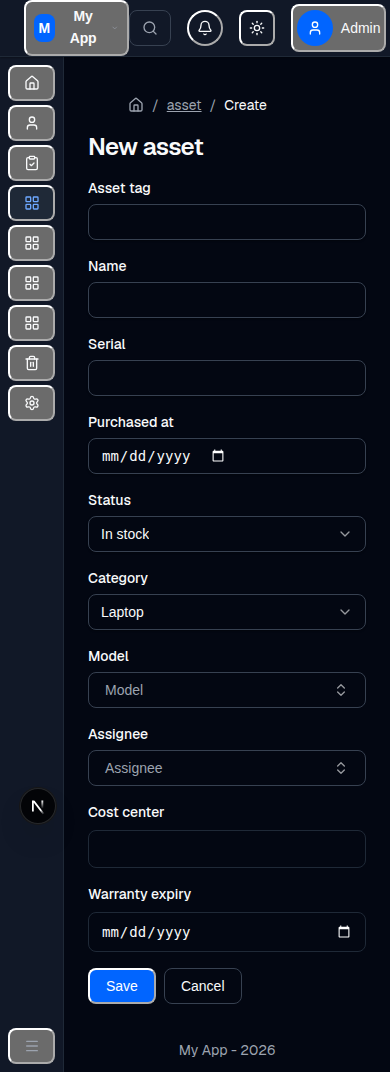
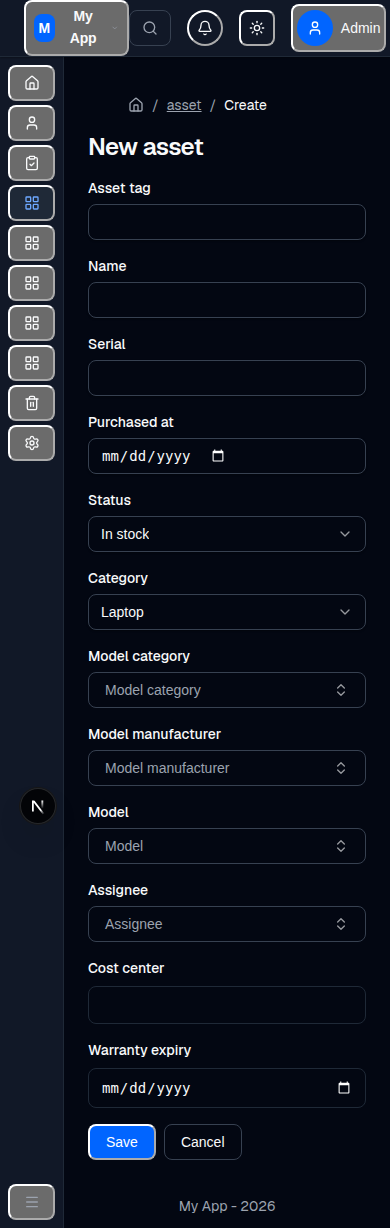
audit(follow-up C): cascading Model picker on the asset form
Adds the cascade the senior review flagged as claimed-but-missing — done the
honest way (a faceted cascade matching the data shape, not a fake parent-chain
off the retained enum).

- RelationSelect gains a `filters` prop (extra query params appended to the
  fetch) + a `useWatch`-driven refetch key.
- asset-model GET filters by ?categoryId= / ?manufacturerId=.
- AssetForm adds two transient filter pickers ("Model category",
  "Model manufacturer") that narrow the Model picker; changing a filter resets
  the chosen Model. Filters are stripped before submit (not asset fields). The
  legacy `category` enum stays a separate coarse device tag.

Bug caught + fixed during live verification: form.watch() inside a Controller
render doesn't re-subscribe, so the filter never reached the fetch — switched to
useWatch at the component top level.

Verified END-TO-END in-browser: with Model manufacturer = Apple, the Model picker
narrows from all 4 models to only Apple's 2 (MacBook Pro 14, iPhone 15); the
asset-model API filter confirmed independently. /ship green. Blueprint Delta
corrected to describe the shipped cascade.

Claude-Session: https://claude.ai/code/session_01Ddin7kVRKheDcidanm3ba8

diff --git a/components/asset/AssetForm.tsx b/components/asset/AssetForm.tsx
@@ -2,6 +2,7 @@
 
 import { useState } from "react";
 import { z } from "zod";
+import { useWatch } from "react-hook-form";
 import { useTranslations } from "next-intl";
 import { useZodForm, Form, TextField } from "@/components/shared/FormField";
 import { FormControl, FormField, FormItem, FormLabel, FormMessage } from "@/components/ui/form";
@@ -59,6 +60,9 @@ export function AssetForm({ initialValues, onSubmit, onCancel, loading = false }
     status: z.enum(["IN_STOCK", "ASSIGNED", "REPAIR", "RETIRED"]),
     category: z.enum(["LAPTOP", "MONITOR", "PHONE", "OTHER"]),
     modelId: z.string().nullish(),
+    // Transient cascade filters for the Model picker — stripped before submit (not asset fields).
+    modelCategoryFilter: z.string().nullish(),
+    modelManufacturerFilter: z.string().nullish(),
     assigneeId: z.string().nullish(),
   });
 
@@ -71,14 +75,28 @@ export function AssetForm({ initialValues, onSubmit, onCancel, loading = false }
       status: initialValues?.status ?? "IN_STOCK",
       category: initialValues?.category ?? "LAPTOP",
       modelId: initialValues?.modelId ?? undefined,
+      modelCategoryFilter: undefined,
+      modelManufacturerFilter: undefined,
       assigneeId: initialValues?.assigneeId ?? undefined,
     },
+  });
+
+  // Subscribe to the cascade filters at the component top level (useWatch is reliable —
+  // form.watch() inside a Controller render does not re-subscribe) so the Model picker
+  // refetches when either filter changes.
+  const modelCategoryFilter = useWatch({ control: form.control, name: "modelCategoryFilter" });
+  const modelManufacturerFilter = useWatch({
+    control: form.control,
+    name: "modelManufacturerFilter",
   });
 
   return (
     <Form {...form}>
       <form
-        onSubmit={form.handleSubmit((values) => onSubmit({ ...values, customFields }))}
+        onSubmit={form.handleSubmit(
+          ({ modelCategoryFilter: _c, modelManufacturerFilter: _m, ...values }) =>
+            onSubmit({ ...values, customFields }),
+        )}
         className="flex max-w-[500px] flex-col gap-4"
       >
         <TextField name="assetTag" label={t("assetTag")} />
@@ -135,6 +153,52 @@ export function AssetForm({ initialValues, onSubmit, onCancel, loading = false }
           )}
         />
 
+        {/* Cascade filters: narrow the Model picker by catalog category / manufacturer.
+            Changing either resets the chosen Model so a stale selection can't survive. */}
+        <FormField
+          name="modelCategoryFilter"
+          render={({ field }) => (
+            <FormItem>
+              <FormLabel>{t("modelCategory")}</FormLabel>
+              <RelationSelect
+                path="/api/category"
+                displayField="name"
+                placeholder={t("modelCategory")}
+                searchPlaceholder={t("searchRelation")}
+                emptyLabel={t("noRelationMatches")}
+                value={field.value ?? undefined}
+                onChange={(v) => {
+                  field.onChange(v);
+                  form.setValue("modelId", undefined);
+                }}
+              />
+              <FormMessage />
+            </FormItem>
+          )}
+        />
+
+        <FormField
+          name="modelManufacturerFilter"
+          render={({ field }) => (
+            <FormItem>
+              <FormLabel>{t("modelManufacturer")}</FormLabel>
+              <RelationSelect
+                path="/api/manufacturer"
+                displayField="name"
+                placeholder={t("modelManufacturer")}
+                searchPlaceholder={t("searchRelation")}
+                emptyLabel={t("noRelationMatches")}
+                value={field.value ?? undefined}
+                onChange={(v) => {
+                  field.onChange(v);
+                  form.setValue("modelId", undefined);
+                }}
+              />
+              <FormMessage />
+            </FormItem>
+          )}
+        />
+
         <FormField
           name="modelId"
           render={({ field }) => (
@@ -148,6 +212,10 @@ export function AssetForm({ initialValues, onSubmit, onCancel, loading = false }
                 emptyLabel={t("noRelationMatches")}
                 value={field.value ?? undefined}
                 onChange={field.onChange}
+                filters={{
+                  categoryId: modelCategoryFilter ?? undefined,
+                  manufacturerId: modelManufacturerFilter ?? undefined,
+                }}
               />
               <FormMessage />
             </FormItem>

diff --git a/components/shared/RelationSelect.tsx b/components/shared/RelationSelect.tsx
@@ -20,6 +20,7 @@ export function RelationSelect({
   emptyLabel,
   value,
   onChange,
+  filters,
 }: {
   path: string;
   displayField: string;
@@ -28,7 +29,12 @@ export function RelationSelect({
   emptyLabel?: string;
   value?: string;
   onChange?: (v: string) => void;
+  /** Extra query params appended to the fetch (empty/undefined skipped) — lets a picker
+   *  cascade off parent selections, e.g. a Model picker scoped by `{ categoryId, manufacturerId }`. */
+  filters?: Record<string, string | undefined>;
 }) {
+  // Stable key so the debounce effect refetches when a parent filter changes.
+  const filterKey = JSON.stringify(filters ?? {});
   const [open, setOpen] = useState(false);
   const [search, setSearch] = useState("");
   const [options, setOptions] = useState<Array<{ value: string; label: string }>>([]);
@@ -41,6 +47,7 @@ export function RelationSelect({
     const timer = setTimeout(() => {
       const qs = new URLSearchParams({ pageSize: "50" });
       if (search) qs.set("search", search);
+      for (const [k, v] of Object.entries(filters ?? {})) if (v) qs.set(k, v);
       fetch(path + "?" + qs.toString())
         .then((r) => r.json())
         .then((j: { data?: { data?: Array<{ id: string } & Record<string, unknown>> } }) => {
@@ -56,7 +63,7 @@ export function RelationSelect({
         .catch(() => {});
     }, 250);
     return () => clearTimeout(timer);
-  }, [path, displayField, search, value]);
+  }, [path, displayField, search, value, filterKey]);
 
   return (
     <Popover open={open} onOpenChange={setOpen}>

diff --git a/app/api/asset-model/route.ts b/app/api/asset-model/route.ts
@@ -12,10 +12,16 @@ const SORTABLE_COLUMNS = ["name", "createdAt"] as const;
 
 export const GET = withRateLimit(
   withAuth(async (request: NextRequest) => {
+    const { searchParams } = request.nextUrl;
     const { pagination, where, orderBy } = parseListQuery<Prisma.AssetModelWhereInput>(
-      request.nextUrl.searchParams,
+      searchParams,
       { searchField: "name", sortable: SORTABLE_COLUMNS },
     );
+    // Cascade filters: narrow the model catalog by the chosen category / manufacturer.
+    const categoryId = searchParams.get("categoryId");
+    if (categoryId) where.categoryId = categoryId;
+    const manufacturerId = searchParams.get("manufacturerId");
+    if (manufacturerId) where.manufacturerId = manufacturerId;
 
     const [data, total] = await Promise.all([
       prisma.assetModel.findMany({

diff --git a/docs/blueprints/asset-tracker.md b/docs/blueprints/asset-tracker.md
@@ -72,13 +72,14 @@ ticketing, ITIL, MDM, ledger, procurement — are explicitly OUT to keep the pil
   - **T2 hierarchy** — was: `category` flat enum. now: real `Category` + `Manufacturer` + `AssetModel`
     entities (full CRUD, soft-delete, audit); `Asset` gains a nullable `modelId → AssetModel` (the
     enum column is RETAINED this release for forward-compat — never drop a column the running version
-    reads). The asset form keeps the legacy `category` **enum** `Select` (a different axis from the
-    Model→Category-entity relation) and ADDS a flat, searchable Model `RelationSelect` → `/api/asset-model`;
-    `AssetModel`'s own Category + Manufacturer are independent searchable pickers. NOTE: not a
-    parent→child _cascading_ picker (the retained enum and the Category entity are separate axes, so
-    cascading off the enum would be misleading) — the Model column/detail surface the resolved
-    manufacturer+category. A future increment could replace the enum axis with a cascading
-    Category-entity picker.
+    reads). The asset form keeps the legacy `category` **enum** `Select` as a coarse device tag (a
+    separate axis from the catalog entities) and adds a **cascading Model picker**: two transient
+    filter pickers — "Model category" (`/api/category`) and "Model manufacturer" (`/api/manufacturer`)
+    — narrow the Model `RelationSelect` (`/api/asset-model?categoryId=&manufacturerId=`), a faceted
+    cascade matching the data shape (an `AssetModel` links a category AND a manufacturer
+    independently). Changing a filter resets the chosen Model; the filters are transient (not
+    persisted — the chosen Model already implies both). `RelationSelect` gained a `filters` prop with
+    `useWatch`-driven refetch. The Model column/detail surface the resolved manufacturer+category.
   - **T9 custom fields** — was: fixed columns only. now: `CustomFieldDef` entity (label/key/type/
     required) + a `customFields Json?` column on `Asset`; the asset form renders defs dynamically and
     the boundary validates them (required/type/unknown-key). Defs have a full admin CRUD
